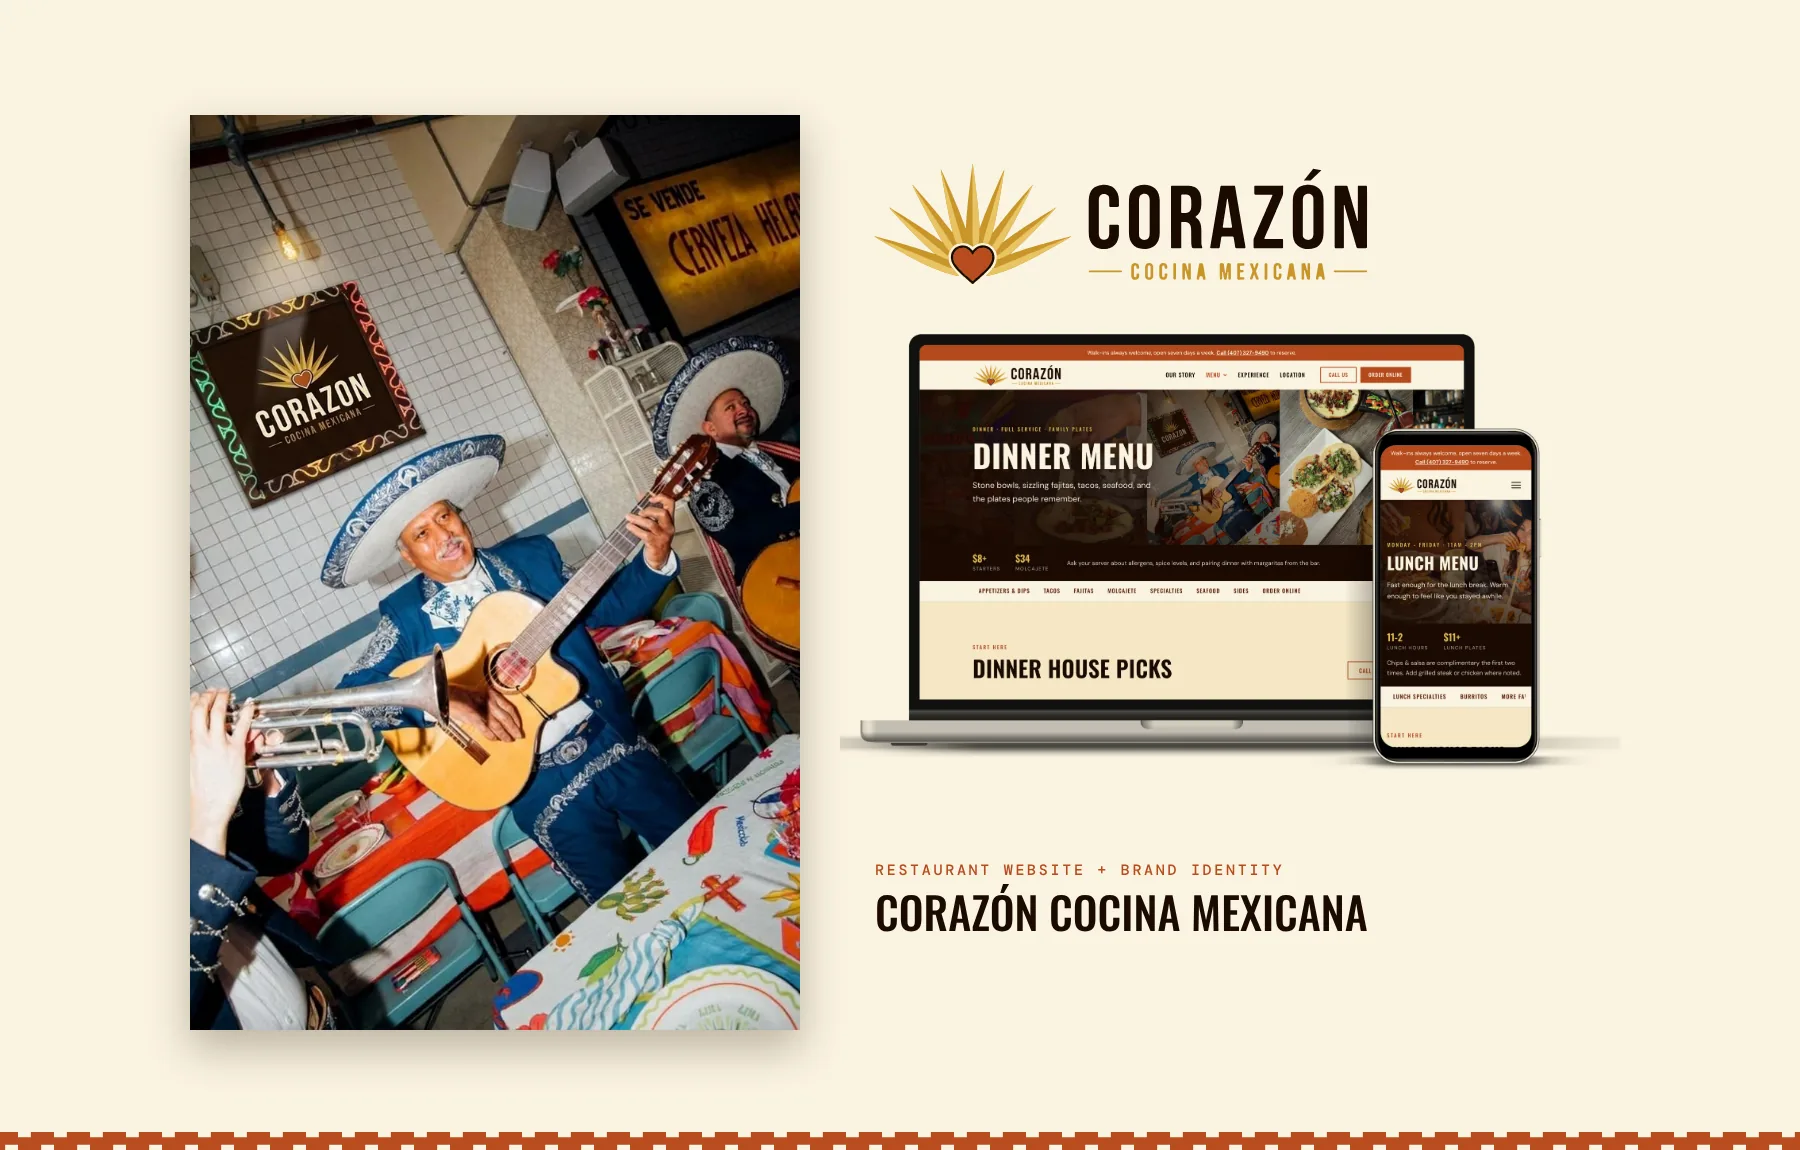
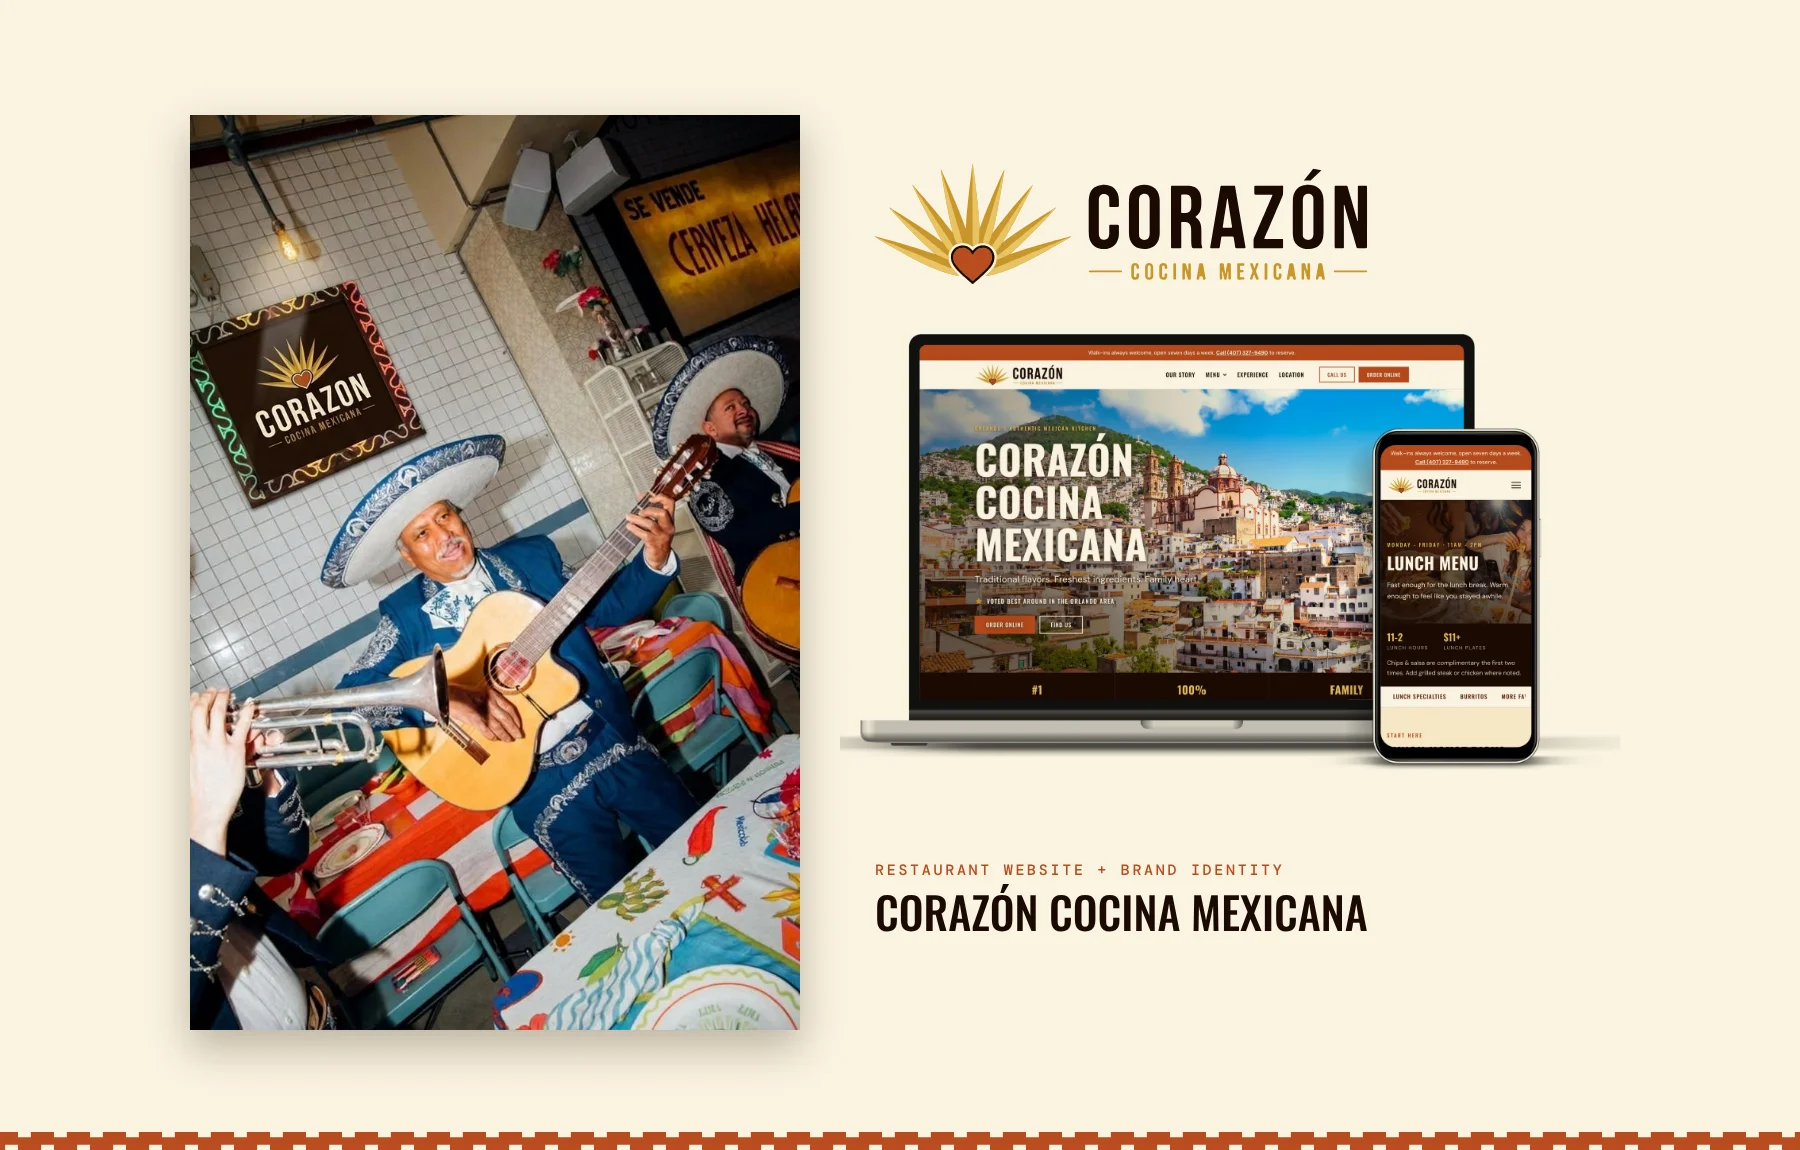
Corazón card: homepage in laptop mockups, add Photoshop and Illustrator to tools (#14)
Claude-Session: https://claude.ai/code/session_01VWMjXh1FMvRQDiUJzNNKtK

Changed region(s): [[0.4978, 0.3043, 0.84, 0.6087]]

diff --git a/script.js b/script.js
@@ -12,7 +12,7 @@ const moreProjects = [
     details: {
       overview: "Corazón Cocina Mexicana is a real family-owned restaurant in Orlando. I redesigned its website and refreshed its brand while keeping every piece of real content: the family story, hours, address and all 93 menu items. The finished site has four pages (Home, Lunch, Dinner and Bar menus) built on a new vector logo system, the restaurant's own warm colors and a bold, photo-led layout.",
       role: "Brand Designer & Front-End Developer – I set the project goals, art-directed the new logo and turned it into vector files, designed the layouts and a small design system, and built the site in hand-coded HTML, CSS and JavaScript.",
-      tools: ["HTML", "CSS", "JavaScript", "SVG Vector Tracing", "GitHub Pages"],
+      tools: ["Adobe Photoshop", "Adobe Illustrator", "HTML", "CSS", "JavaScript", "SVG Vector Tracing", "GitHub Pages"],
       challenge: "The original site set thin blue text over busy photos and had no menu preview or ordering path, and the logo was a 484 × 340 px image in colors that didn't fit the food. My first redesign fixed the structure but looked like a template: rounded cards, serif and script type, and Aztec patterns everywhere. My goals were to make it feel high end and authentic without falling into cliché, use fewer images, keep animation light and make it accessible.",
       solution: "I rebuilt every page in plain CSS with no framework. Two typefaces (Oswald for headlines, DM Sans for text), the restaurant's original terracotta, gold, cream and dark brown, flat square cards and menus laid out like a printed menu replaced the template look. The Aztec greca pattern became one small accent line, so the agave and heart logo and real restaurant photos carry the culture.",
       processTitle: "From Template to Brand",
@@ -32,7 +32,7 @@ const moreProjects = [
         { title: "Published it", text: "I moved the site into a GitHub repository and launched it on GitHub Pages, so every update goes live and anyone can see the real site at any time." }
       ],
       gallery: [
-        { src: "images/corazon/devices-mockup.webp", alt: "The Corazón Dinner menu page on a laptop and the Lunch menu page on a phone", caption: "The Dinner menu on a laptop and the Lunch menu on a phone." },
+        { src: "images/corazon/devices-mockup.webp", alt: "The Corazón homepage on a laptop and the Lunch menu page on a phone", caption: "The homepage on a laptop and the Lunch menu on a phone." },
         { src: "images/corazon/design-system.webp", alt: "Corazón mini design system: six brand colors with contrast ratios, Oswald and DM Sans type, buttons, a five-star rating, the greca accent and the logo on a server's and a bartender's apron", caption: "The mini design system: colors, type, buttons and the greca accent, with the brand on a server's and a bartender's apron." },
         { src: "images/corazon/logo-system.webp", alt: "Corazón logo system: stacked and horizontal logos in color, black and white on light and dark backgrounds", caption: "The logo system: stacked and horizontal versions in color, black and white." },
         { src: "images/corazon/phones.webp", alt: "Three phone screens of the Corazón site: the Lunch menu, the Dinner menu and the footer", caption: "On a phone: the Lunch and Dinner menus and the footer." }
@@ -537,7 +537,7 @@ Object.assign(enToEs, {
   'The Lunch and Dinner pages open with a slow, scrolling strip of restaurant photos behind a darker gradient that keeps the headline readable. The motion stops for visitors who ask their device for less motion, and dropping the outside code libraries made the pages lighter.': 'Las páginas de Almuerzo y Cena abren con una franja lenta de fotos del restaurante detrás de un degradado más oscuro que mantiene legible el título. El movimiento se detiene para quienes piden menos movimiento en su dispositivo, y quitar las librerías externas hizo las páginas más ligeras.',
   'Published it': 'Lo publiqué',
   'I moved the site into a GitHub repository and launched it on GitHub Pages, so every update goes live and anyone can see the real site at any time.': 'Pasé el sitio a un repositorio de GitHub y lo lancé en GitHub Pages, así cada actualización se publica sola y cualquiera puede ver el sitio real en cualquier momento.',
-  'The Dinner menu on a laptop and the Lunch menu on a phone.': 'El menú de Cena en una laptop y el menú de Almuerzo en un teléfono.',
+  'The homepage on a laptop and the Lunch menu on a phone.': 'La página de inicio en una laptop y el menú de Almuerzo en un teléfono.',
   'The mini design system: colors, type, buttons and the greca accent, with the brand on a server\'s and a bartender\'s apron.': 'El mini sistema de diseño: colores, tipografía, botones y el acento de grecas, con la marca en el delantal de un mesero y de una bartender.',
   'The logo system: stacked and horizontal versions in color, black and white.': 'El sistema de logo: versiones apiladas y horizontales a color, en negro y en blanco.',
   'On a phone: the Lunch and Dinner menus and the footer.': 'En el teléfono: los menús de Almuerzo y Cena y el pie de página.',
